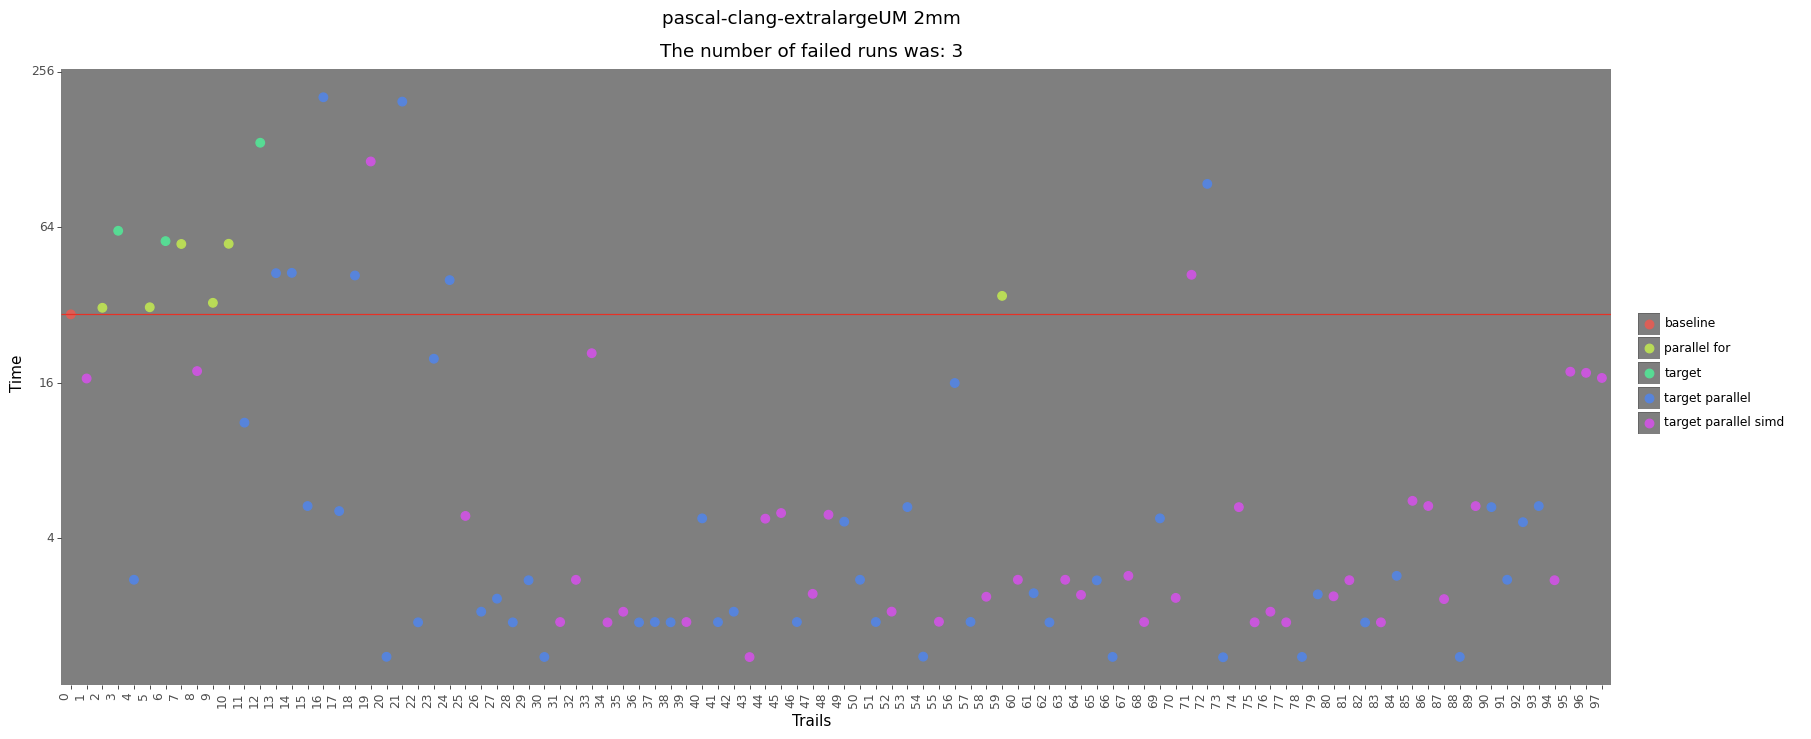
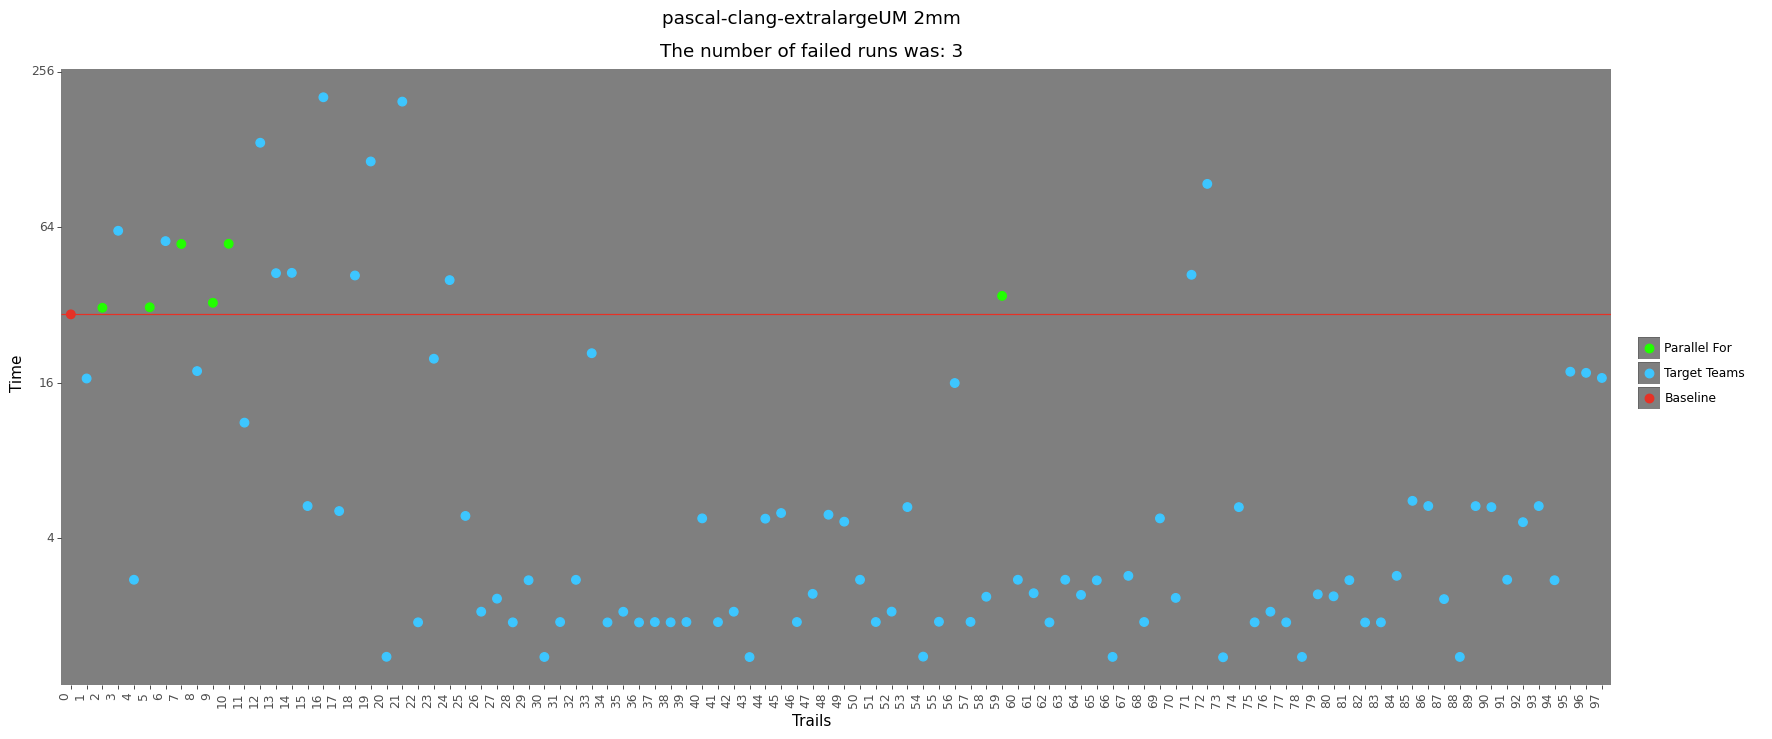
updated graphs

diff --git a/result_analyzer/2mm/temptable.py b/result_analyzer/2mm/temptable.py
@@ -11,8 +11,7 @@ import numpy as np
 
 def fun(read):
     cwd = os.getcwd()
-    name = os.path.basename(cwd)
-    #name = cwd.split("/")[5]
+    name = cwd.split("/")[5]
     file = pd.read_csv(read)
     baseline = file.loc[file['directive'] == 'baseline']['objective'].values
     filetype = title=read.replace('.csv', '') # that will make lassen-clang-largeUM.csv to lassen-clang-largeUM
@@ -23,12 +22,34 @@ def fun(read):
     if count_failed > 0:
         txt = f"""\n \nThe number of failed runs was: {count_failed}"""
 
+    l = ['/num', 'limit/']
+    regstr = ''.join(l)
+    print(regstr)
     #need to add a color column, where baseline is red, target teams is blue, parallel for is green.
-    file['colour'] = np.full(shape=len(file.index),fill_value='black')
-
+    file['colour'] = np.full(shape=len(file.index),fill_value='other')
+    """
     file.loc[file['directive'].str.contains("pragma omp parallel for",case=False ,na=False), 'colour'] = '#22FF00'
-    file.loc[file['directive'].str.contains("target teams distribute",case=False ,na=False), 'colour'] = '#3DC6FF'
+    file.loc[file['directive'].str.contains("target teams distribute",case=False ,na=False), 'colour'] = '#F0740D'
+    file.loc[file['directive'].str.contains("target teams distribute parallel for",case=False ,na=False), 'colour'] = '#3DC6FF'
+    file.loc[file['directive'].str.contains("target teams distribute parallel for simd",case=False ,na=False), 'colour'] = '#CD00E0'    
     file.loc[file['directive'].str.contains("baseline",case=False ,na=False), 'colour'] = '#E63226'
+    """
+    file.loc[file['directive'].str.contains("pragma omp parallel for",case=False ,na=False), 'colour'] = 'parallel for'
+    file.loc[file['directive'].str.contains("target teams distribute",case=False ,na=False), 'colour'] = 'target'
+    file.loc[file['directive'].str.contains("target teams distribute parallel for",case=False ,na=False), 'colour'] = 'target parallel'
+    file.loc[file['directive'].str.contains("target teams distribute parallel for simd",case=False ,na=False), 'colour'] = 'target parallel simd'    
+    file.loc[file['directive'].str.contains("baseline",case=False ,na=False), 'colour'] = 'baseline'
+    bool = file['directive'].str.contains("target teams distribute parallel for",case=False ,na=False).any() and file['directive'].str.contains("num_threads" ,case=False ,na=False).any() and file['directive'].str.contains("thread_limit" ,case=False ,na=False).any()
+    print(bool)
+    if bool:
+        file.loc[file['directive'].str.contains("0*[5-9]\d",case=False ,na=False), 'colour'] = 'num_threads and limit'
+        
+    #file.loc[file['directive'].str.contains("num_threads(16)",case=False ,na=False), 'colour'] = 'num_threads(16)'
+    #file.loc[file['directive'].str.contains("num_threads(128)",case=False ,na=False), 'colour'] = 'num_threads(128)'
+    
+    
+#distribute parallel for simd schedule(dynamic)     
+    
     
     file['directive'] = file['directive'].astype(str)
     #df[df.columns[0]].count()
@@ -47,14 +68,22 @@ def fun(read):
                                 theme(legend_title = element_blank()) + \
                                 geom_hline(aes(yintercept= float(baseline)), color = '#E63226')
 
-    #(range(file.shape[0]))
-    
     #We have other, parallel for, target teams and baseline
     print("black count: " + str(len(file[file['colour'].str.contains('black')])))
     print("target count: " + str(len(file[file['colour'].str.contains('#3DC6FF')])))
     
-    if len(file[file['colour'].str.contains('black')]) > 0 and len(file[file['colour'].str.contains('#3DC6FF')]) > 0:
-        plot1 = plot1 + scale_color_manual(values =('#22FF00','#3DC6FF','#E63226','black') ,labels=("Parallel For","Target Teams","Baseline", "Other"))
+    targetparallel = len(file[file['colour'].str.contains('#3DC6FF')])
+    target = len(file[file['colour'].str.contains('#F0740D')])
+    targetparsimd = len(file[file['colour'].str.contains('#CD00E0')])
+    other = len(file[file['colour'].str.contains('black')])
+    """
+    if other > 0 and targetparallel > 0 and target > 0 and targetparsimd > 0:
+        plot1 = plot1 + scale_color_manual(values =('#22FF00','#3DC6FF', '#F0740D', '#CD00E0','#E63226','black') ,labels=("Parallel For","Target Parallel", "Target",'Target Simd',"Baseline", "Other"))
+
+    
+    
+    #if len(file[file['colour'].str.contains('black')]) > 0 and len(file[file['colour'].str.contains('#3DC6FF')]) > 0:
+    #    plot1 = plot1 + scale_color_manual(values =('#22FF00','#3DC6FF','#E63226','black') ,labels=("Parallel For","Target Teams","Baseline", "Other"))
 
     # We have parallel for, target teams and baseline
     elif len(file[file['colour'].str.contains('#3DC6FF')]) > 0 and len(file[file['colour'].str.contains('black')]) == 0:
@@ -64,11 +93,11 @@ def fun(read):
     elif len(file[file['colour'].str.contains('#3DC6FF')]) == 0 and len(file[file['colour'].str.contains('black')]) == 0:
         plot1 = plot1 + scale_color_manual(values =('#22FF00','#E63226') ,labels=("Parallel For","Baseline"))
 
+    #We have parallel for, other and baseline
     elif len(file[file['colour'].str.contains('#3DC6FF')]) == 0 and len(file[file['colour'].str.contains('black')]) > 0:
         plot1 = plot1 + scale_color_manual(values =('#22FF00','#E63226','black') ,labels=("Parallel For","Baseline", "Other"))
-        
-    
-        
+    """ 
+    #    plot1 = plot1 + scale_colour_discrete()        
     ggsave(plot1, filetype+name+'.png')
     return 0    
 

diff --git a/result_analyzer/3mm/createtable.py b/result_analyzer/3mm/createtable.py
@@ -11,7 +11,8 @@ import numpy as np
 
 def fun(read):
     cwd = os.getcwd()
-    name = cwd.split("/")[5]
+    name = os.path.basename(cwd)
+    #name = cwd.split("/")[5]
     file = pd.read_csv(read)
     baseline = file.loc[file['directive'] == 'baseline']['objective'].values
     filetype = title=read.replace('.csv', '') # that will make lassen-clang-largeUM.csv to lassen-clang-largeUM

diff --git a/result_analyzer/convolution-2d/createtable.py b/result_analyzer/convolution-2d/createtable.py
@@ -11,7 +11,8 @@ import numpy as np
 
 def fun(read):
     cwd = os.getcwd()
-    name = cwd.split("/")[5]
+    name = os.path.basename(cwd)
+    #name = cwd.split("/")[5]
     file = pd.read_csv(read)
     baseline = file.loc[file['directive'] == 'baseline']['objective'].values
     filetype = title=read.replace('.csv', '') # that will make lassen-clang-largeUM.csv to lassen-clang-largeUM

diff --git a/result_analyzer/convolution-3d/createtable.py b/result_analyzer/convolution-3d/createtable.py
@@ -11,7 +11,8 @@ import numpy as np
 
 def fun(read):
     cwd = os.getcwd()
-    name = cwd.split("/")[5]
+    name = os.path.basename(cwd)
+    #name = cwd.split("/")[5]
     file = pd.read_csv(read)
     baseline = file.loc[file['directive'] == 'baseline']['objective'].values
     filetype = title=read.replace('.csv', '') # that will make lassen-clang-largeUM.csv to lassen-clang-largeUM

diff --git a/result_analyzer/correlation/createtable.py b/result_analyzer/correlation/createtable.py
@@ -11,7 +11,8 @@ import numpy as np
 
 def fun(read):
     cwd = os.getcwd()
-    name = cwd.split("/")[5]
+    name = os.path.basename(cwd)
+    #name = cwd.split("/")[5]
     file = pd.read_csv(read)
     baseline = file.loc[file['directive'] == 'baseline']['objective'].values
     filetype = title=read.replace('.csv', '') # that will make lassen-clang-largeUM.csv to lassen-clang-largeUM

diff --git a/result_analyzer/covariance/createtable.py b/result_analyzer/covariance/createtable.py
@@ -11,7 +11,8 @@ import numpy as np
 
 def fun(read):
     cwd = os.getcwd()
-    name = cwd.split("/")[5]
+    name = os.path.basename(cwd)
+    #name = cwd.split("/")[5]
     file = pd.read_csv(read)
     baseline = file.loc[file['directive'] == 'baseline']['objective'].values
     filetype = title=read.replace('.csv', '') # that will make lassen-clang-largeUM.csv to lassen-clang-largeUM

diff --git a/result_analyzer/doitgen/createtable.py b/result_analyzer/doitgen/createtable.py
@@ -11,7 +11,8 @@ import numpy as np
 
 def fun(read):
     cwd = os.getcwd()
-    name = cwd.split("/")[5]
+    name = os.path.basename(cwd)
+    #name = cwd.split("/")[5]
     file = pd.read_csv(read)
     baseline = file.loc[file['directive'] == 'baseline']['objective'].values
     filetype = title=read.replace('.csv', '') # that will make lassen-clang-largeUM.csv to lassen-clang-largeUM

diff --git a/result_analyzer/fdtd-apml/createtable.py b/result_analyzer/fdtd-apml/createtable.py
@@ -11,7 +11,8 @@ import numpy as np
 
 def fun(read):
     cwd = os.getcwd()
-    name = cwd.split("/")[5]
+    name = os.path.basename(cwd)
+    #name = cwd.split("/")[5]
     file = pd.read_csv(read)
     baseline = file.loc[file['directive'] == 'baseline']['objective'].values
     filetype = title=read.replace('.csv', '') # that will make lassen-clang-largeUM.csv to lassen-clang-largeUM

diff --git a/result_analyzer/gemm/createtable.py b/result_analyzer/gemm/createtable.py
@@ -11,7 +11,8 @@ import numpy as np
 
 def fun(read):
     cwd = os.getcwd()
-    name = cwd.split("/")[5]
+    name = os.path.basename(cwd)
+    #name = cwd.split("/")[5]
     file = pd.read_csv(read)
     baseline = file.loc[file['directive'] == 'baseline']['objective'].values
     filetype = title=read.replace('.csv', '') # that will make lassen-clang-largeUM.csv to lassen-clang-largeUM

diff --git a/result_analyzer/gemver/createtable.py b/result_analyzer/gemver/createtable.py
@@ -11,7 +11,8 @@ import numpy as np
 
 def fun(read):
     cwd = os.getcwd()
-    name = cwd.split("/")[5]
+    name = os.path.basename(cwd)
+    #name = cwd.split("/")[5]
     file = pd.read_csv(read)
     baseline = file.loc[file['directive'] == 'baseline']['objective'].values
     filetype = title=read.replace('.csv', '') # that will make lassen-clang-largeUM.csv to lassen-clang-largeUM

diff --git a/result_analyzer/gesummv/createtable.py b/result_analyzer/gesummv/createtable.py
@@ -11,7 +11,8 @@ import numpy as np
 
 def fun(read):
     cwd = os.getcwd()
-    name = cwd.split("/")[5]
+    name = os.path.basename(cwd)
+    #name = cwd.split("/")[5]
     file = pd.read_csv(read)
     baseline = file.loc[file['directive'] == 'baseline']['objective'].values
     filetype = title=read.replace('.csv', '') # that will make lassen-clang-largeUM.csv to lassen-clang-largeUM

diff --git a/result_analyzer/mvt/createtable.py b/result_analyzer/mvt/createtable.py
@@ -11,7 +11,8 @@ import numpy as np
 
 def fun(read):
     cwd = os.getcwd()
-    name = cwd.split("/")[5]
+    name = os.path.basename(cwd)
+    #name = cwd.split("/")[5]
     file = pd.read_csv(read)
     baseline = file.loc[file['directive'] == 'baseline']['objective'].values
     filetype = title=read.replace('.csv', '') # that will make lassen-clang-largeUM.csv to lassen-clang-largeUM
